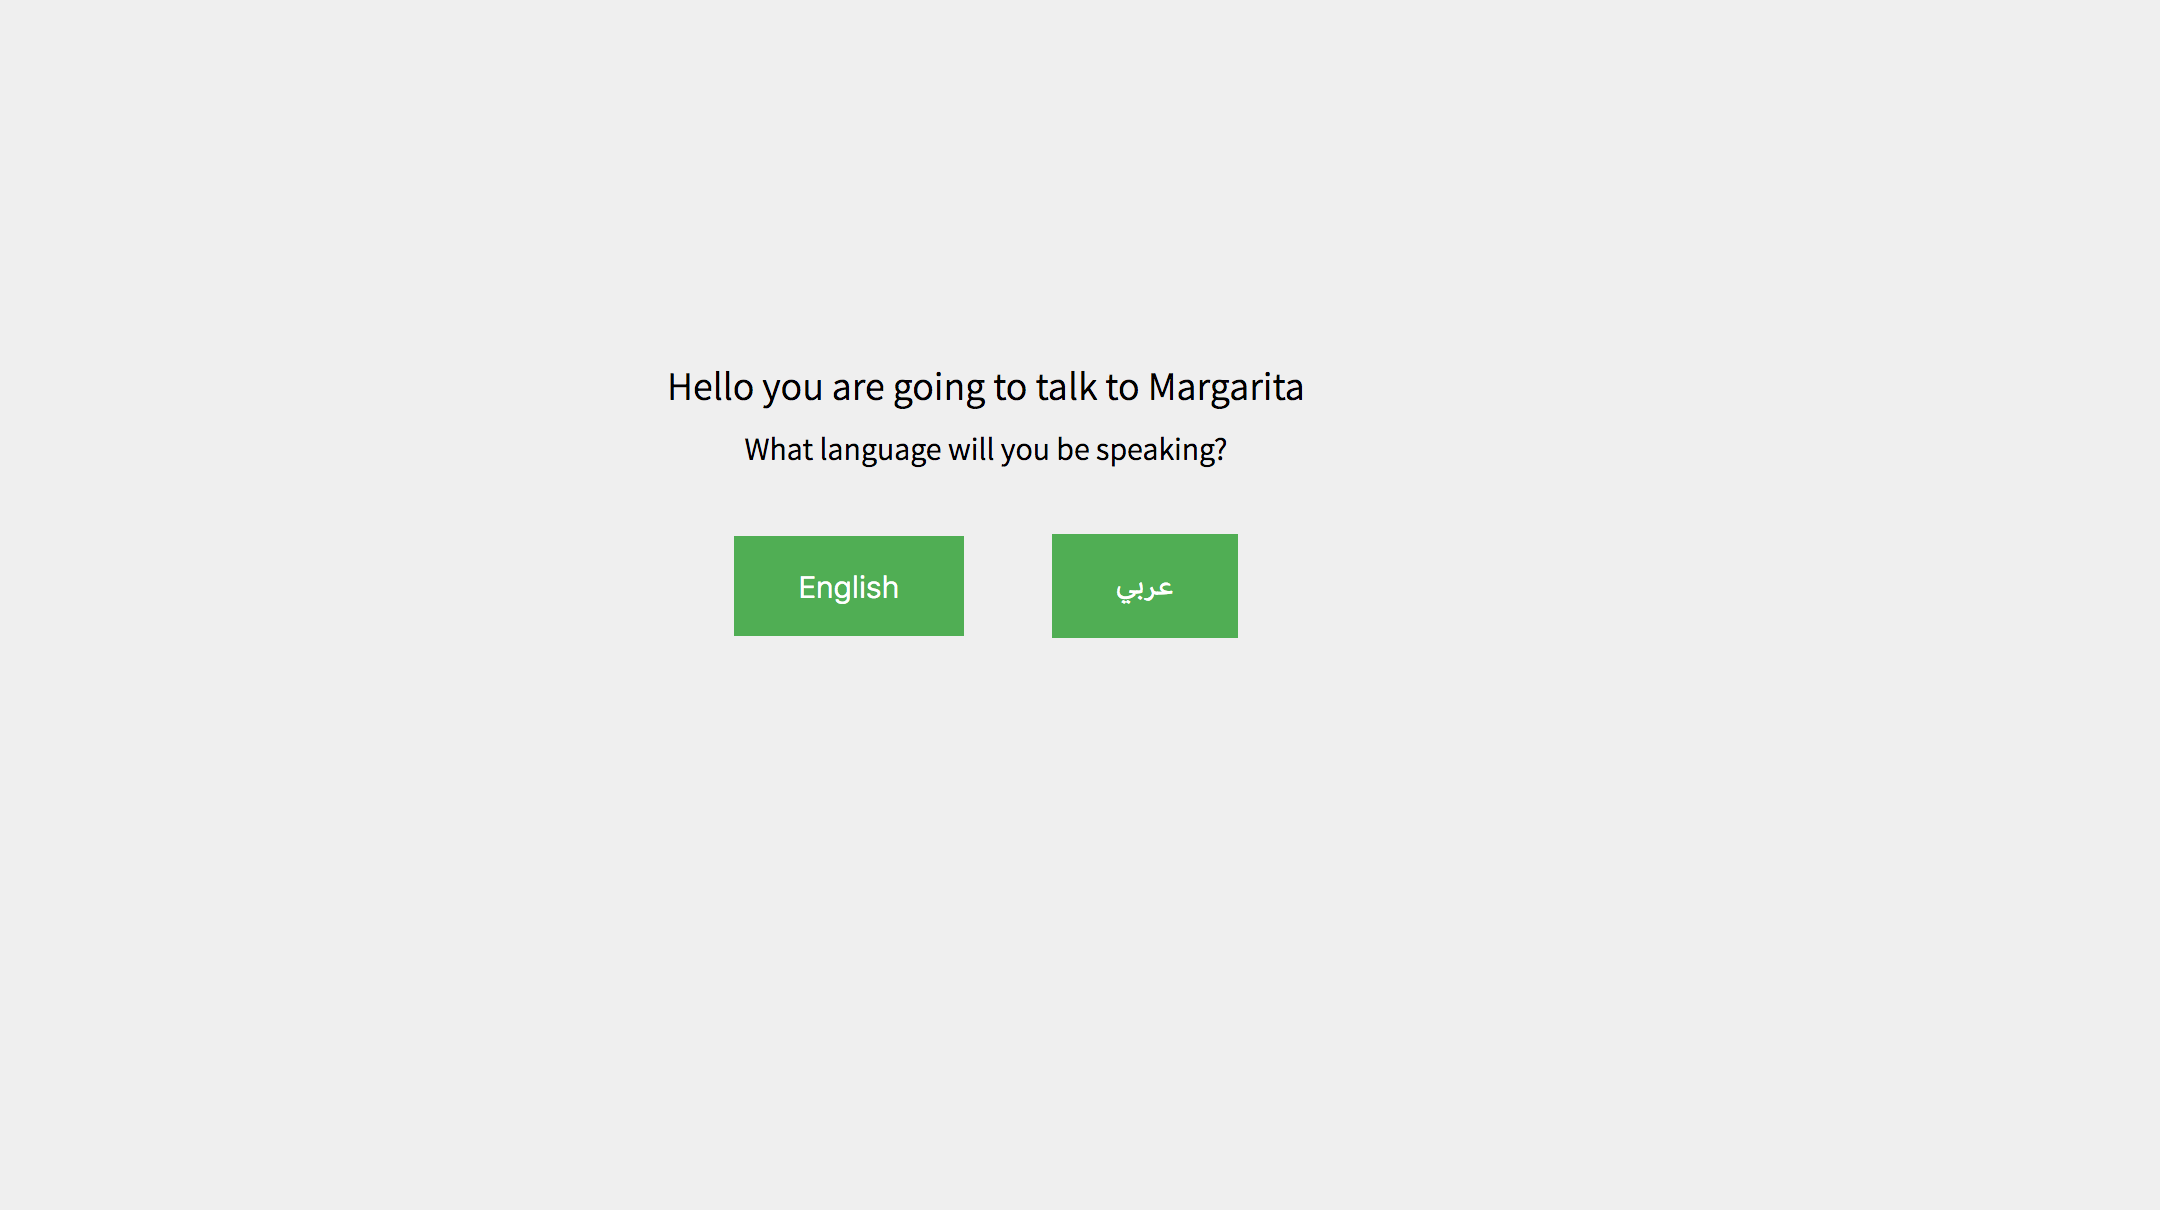
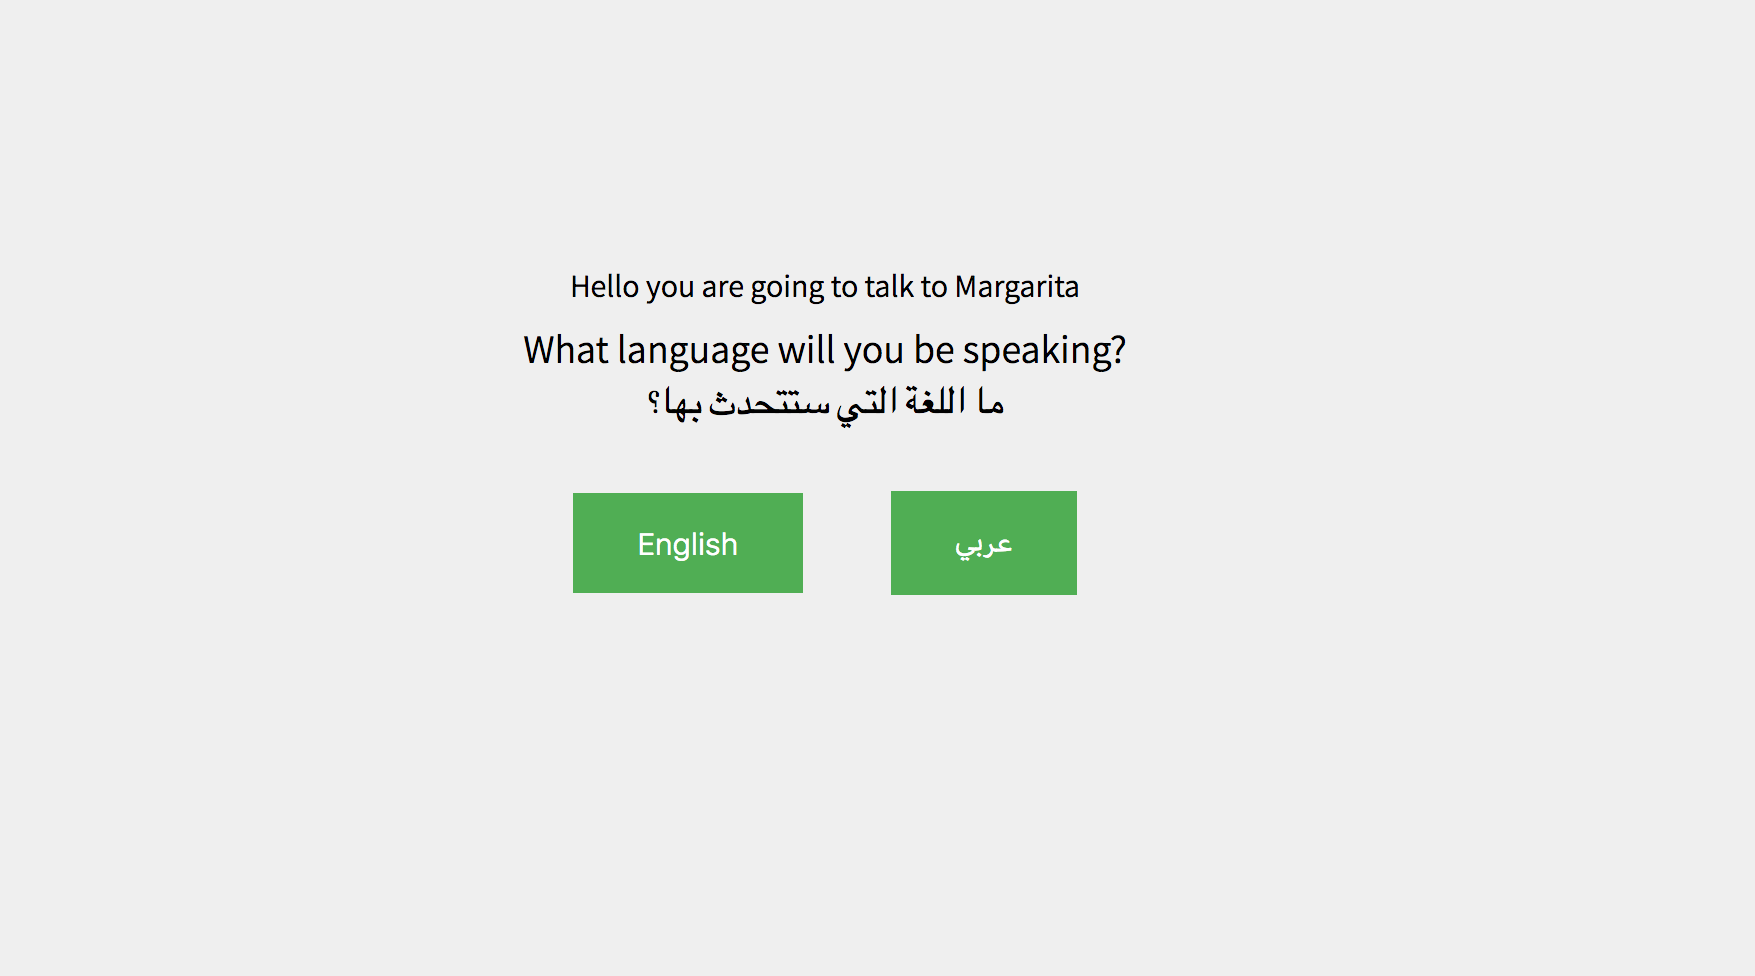
added more Arabic in choose langauge page

Changed region(s): [[0.2769, 0.2766, 0.6462, 0.6148]]

diff --git a/web-player/templates/choose_language.html b/web-player/templates/choose_language.html
@@ -12,7 +12,11 @@
 
 <div class="messages">
 <div class="avatar_message">Hello you are going to talk to {{avatar|capitalize}}</div>
-<div class="language_message">What language will you be speaking? </div>
+
+<div class="language_message">What language will you be speaking?<br>
+ما اللغة التي ستتحدث بها؟
+</div>
+
 </div>
 
 

diff --git a/web-player/static/styles/choose_language.css b/web-player/static/styles/choose_language.css
@@ -6,13 +6,15 @@ body{
 }
 
 .avatar_message{
-  margin:5px auto;
-  font-size: 20px;
+  margin:8px auto;
+  font-size: 16px;
+
 }
 
 .language_message{
-  margin:8px auto;
-  font-size: 16px;
+  margin:5px auto;
+  font-size: 20px;
+
 }
 
 form{

diff --git a/web-player/templates/choose_avatar.html b/web-player/templates/choose_avatar.html
@@ -11,7 +11,6 @@
 
 <div class="message">Hi I'm your friend TOIA ! Who would you like to talk to today?<br>
   أهلا، أنا صديقك "تويا"! مع من تريد أن تتحدث اليوم؟
-
 </div>
 
 <div class="container">
